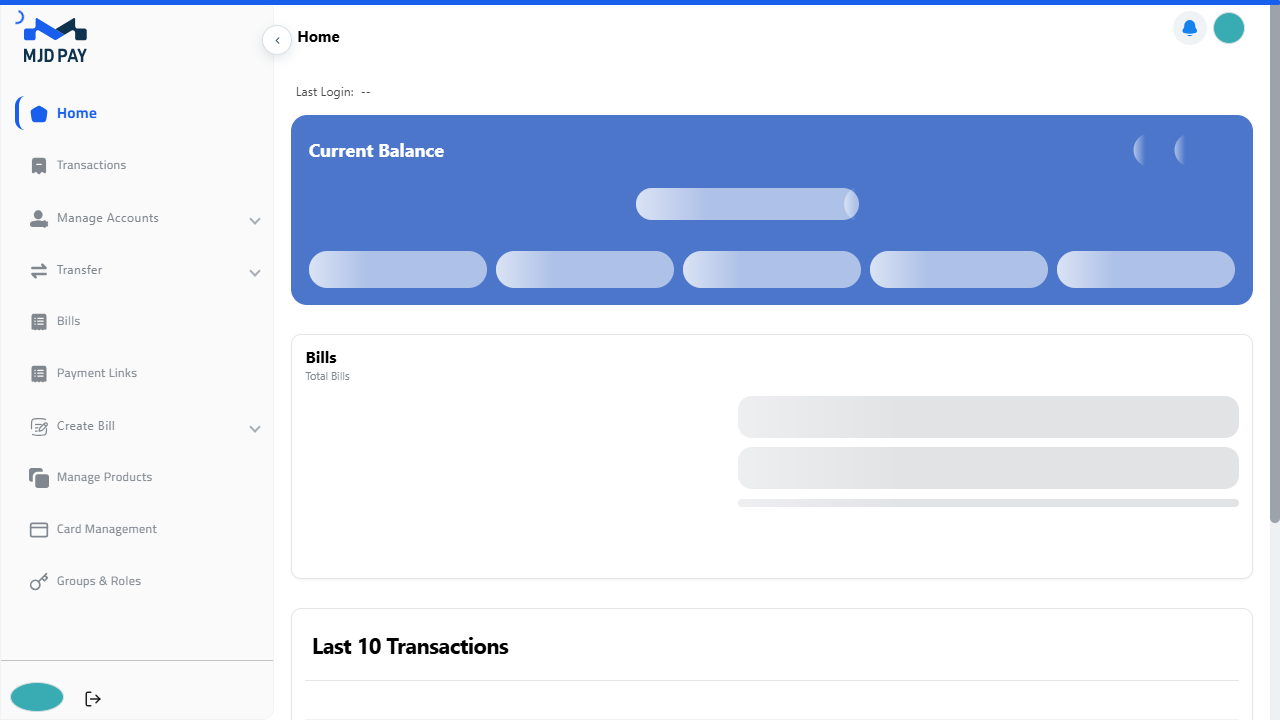
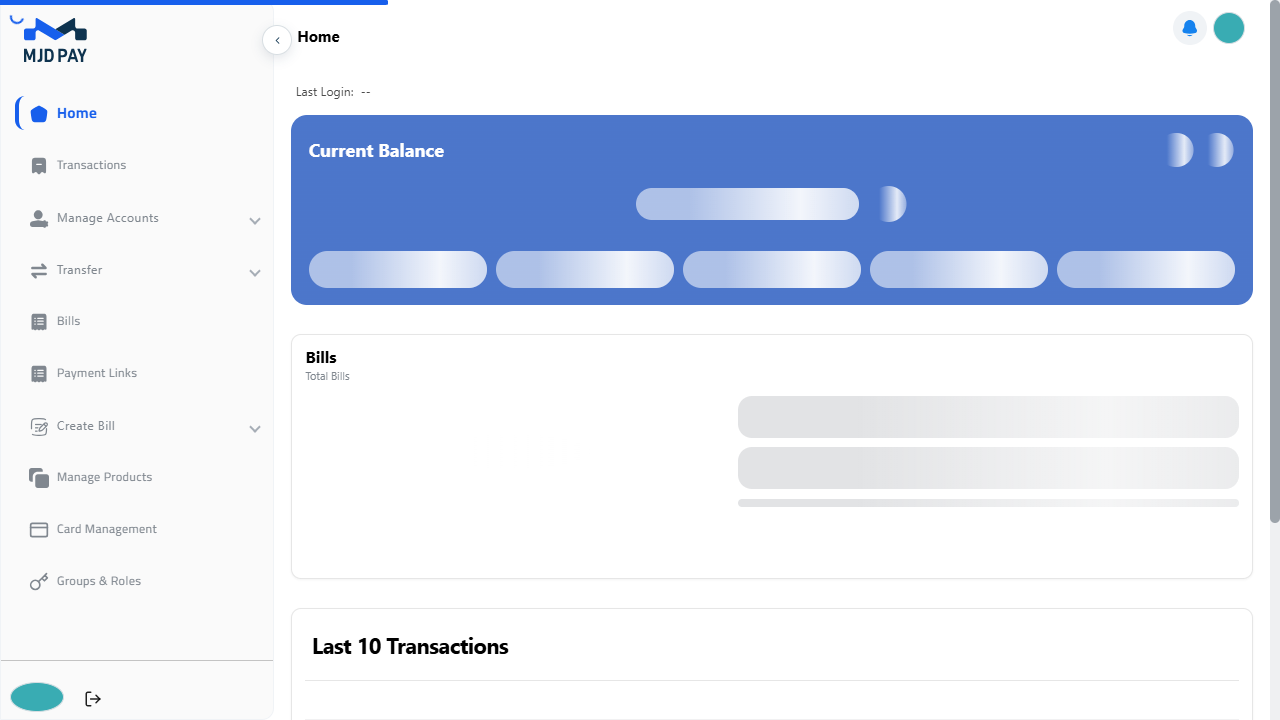
feat: implement login page object, data-driven test suite, and comprehensive login scenarios

diff --git a/tests/testCases/LoginTests.spec.ts b/tests/testCases/LoginTests.spec.ts
@@ -86,7 +86,7 @@ test.describe('MajdPay Login Tests', () => {
                     expect(actualValue).toHaveLength(data.expectedMobileLength);
                 }
 
-                await expect(page).toHaveURL(/\/business\/login/i);
+                await expect(page).toHaveURL(/\/business\/auth\/login/i);
 
                 if (data.expectedToastError !== undefined) {
                     await loginPage.assertToastError(data.expectedToastError);
@@ -192,8 +192,8 @@ test.describe('MajdPay Login Tests', () => {
             // Step 2: Switch to Arabic BEFORE any login interaction
             await loginPage.selectArabic();
 
-            // Wait for the layout shift to fully settle after language change
-            await page.waitForLoadState('networkidle');
+            // Wait for Arabic language to be active (more stable than networkidle)
+            await expect(loginPage.arabicButton).toHaveAttribute('aria-pressed', 'true');
 
             // Verify Arabic is now the active language
             const isArabicActive = await loginPage.isLanguageActive(loginPage.arabicButton);

diff --git a/tests/pageObjects/LoginPage.ts b/tests/pageObjects/LoginPage.ts
@@ -28,6 +28,7 @@ export class LoginPage {
             .or(page.getByRole('textbox', { name: /رقم الشركة/i }));
         this.mobileNumberInput = page.getByRole('textbox', { name: /mobile number/i })
             .or(page.getByRole('textbox', { name: /رقم الجوال/i }));
+
         this.passwordInput = page.getByRole('textbox', { name: /^password$/i })
             .or(page.getByRole('textbox', { name: /كلمة المرور/i }));
 
@@ -86,8 +87,7 @@ export class LoginPage {
     }
 
     async assertLoginSuccess() {
-        const expectedUrl = 'https://uat.majdpay.com/business/main/home';
-        await expect(this.page).toHaveURL(expectedUrl, { timeout: 10000 });
+        await expect(this.page).toHaveURL(/\/business\/main\/home/i, { timeout: 10000 });
 
         // Captures the entire scrollable page for audit trail
         await this.page.screenshot({ path: 'full-page.png', fullPage: true });

diff --git a/tests/pageObjects/BankTransferPage.ts b/tests/pageObjects/BankTransferPage.ts
@@ -35,7 +35,7 @@ export class BankTransferPage {
 
     // Predefined amounts locator helper
     private predefinedAmounts(): Locator {
-        return this.page.locator("//li[contains(@id,'amount_')]");
+        return this.page.locator("//button[contains(@id,'amount_')]");
     }
 
     // ---------- Actions ----------